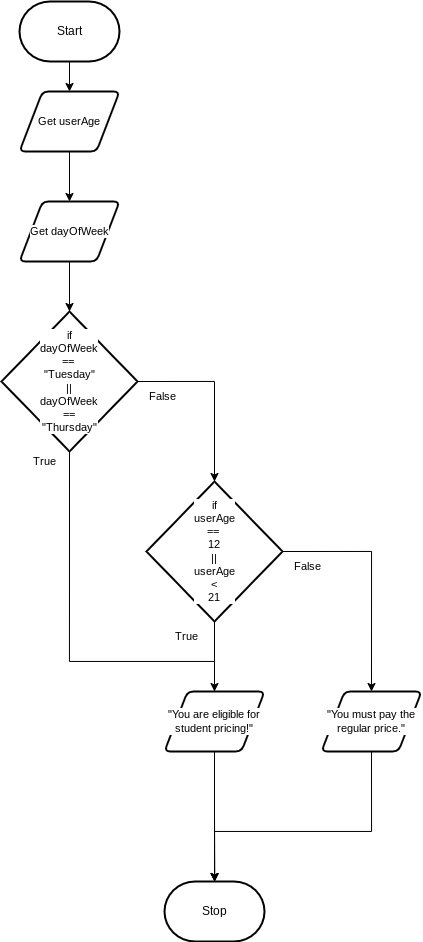
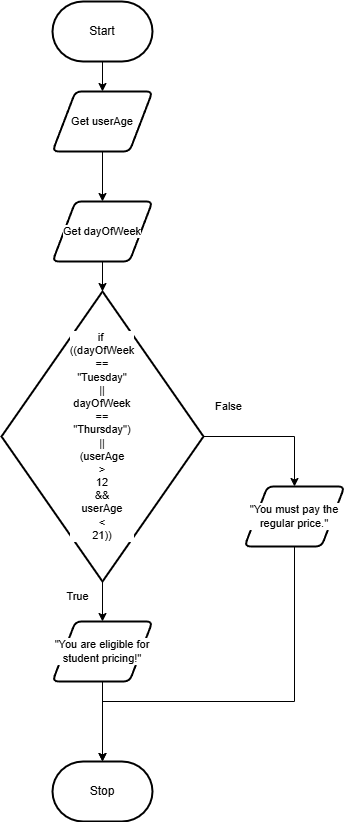
updated flowchart and code to be like flowchart

diff --git a/index.html b/index.html
@@ -73,13 +73,13 @@
             class="mdl-textfield mdl-js-textfield mdl-textfield--floating-label"
           >
             <select class="mdl-textfield__input" id="day-of-week">
-              <option value="MON" data-selected="true">Monday</option>
-              <option value="TUE">Tuesday</option>
-              <option value="WED">Wednesday</option>
-              <option value="THU">Thursday</option>
-              <option value="FRI">Friday</option>
-              <option value="SAT">Saturday</option>
-              <option value="SUN">Sunday</option>
+              <option value="Monday" data-selected="true">Monday</option>
+              <option value="Tuesday">Tuesday</option>
+              <option value="Wednesday">Wednesday</option>
+              <option value="Thursday">Thursday</option>
+              <option value="Friday">Friday</option>
+              <option value="Saturday">Saturday</option>
+              <option value="Sunday">Sunday</option>
             </select>
             <label class="mdl-textfield__label" for="day-of-week"
               >Day of the Week</label

diff --git a/js/script.js b/js/script.js
@@ -6,12 +6,15 @@
 
 "use scrict"
 
+/**
+ * This function checks if the user is eligible for a student discount.
+ */
 function checkForDiscount() {
   const userAge = parseInt(document.getElementById('user-age').value)
   const dayOfWeek = document.getElementById('day-of-week').value
 
   // process
-  if ((dayOfWeek == 'TUE' || dayOfWeek == 'THU') || (userAge > 12 && userAge < 21)) {
+  if ((dayOfWeek == "Tuesday" || dayOfWeek == "Thursday") || (userAge > 12 && userAge < 21)) {
     document.getElementById('result').innerHTML =
       '<p>You are eligible for student pricing!</p>'
   }
